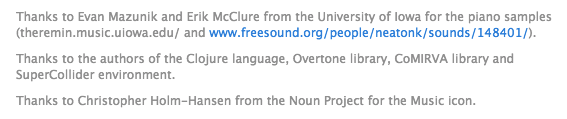
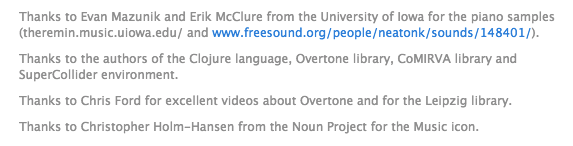
Add to readme: info about config, mq, more credits

diff --git a/README.md b/README.md
@@ -31,13 +31,19 @@ This is the complete installation procedure from the vanilla Ubuntu 15.04 x64 bo
     apt-get install upstart
     apt-get install upstart-sysv
     reboot
-    #now copy & extract or checkout speech-melody in /usr/local/speech-melody dir
+    #now copy & extract or checkout speech-melody in /usr/local/speech-melody dir, update config in resources/config.edn & ruby_twitter_bot/bot.yaml
     mv install/speech-melody.conf /etc/init
     mv install/speech-melody-bot.conf /etc/init
     start speech-melody
     start speech-melody-bot
     #to view logs: cat /var/log/upstart/speech-melody.log and cat /var/log/upstart/speech-melody-bot.log
     #also cat /usr/local/speech-melody/speech-melody.log and cat /usr/local/speech-melody/ruby_twitter_bot/ruby_twitter_bot.log
+
+## MQ
+
+This bot uses RabbitMQ as shown below. The reverse route is not pictured, but similar.
+
+![The arrows from t to MQ to worker. ACK from worker back to MQ.](https://raw.githubusercontent.com/PawelStroinski/speech-melody/master/images/mq.png)
 
 ## Credits
 
